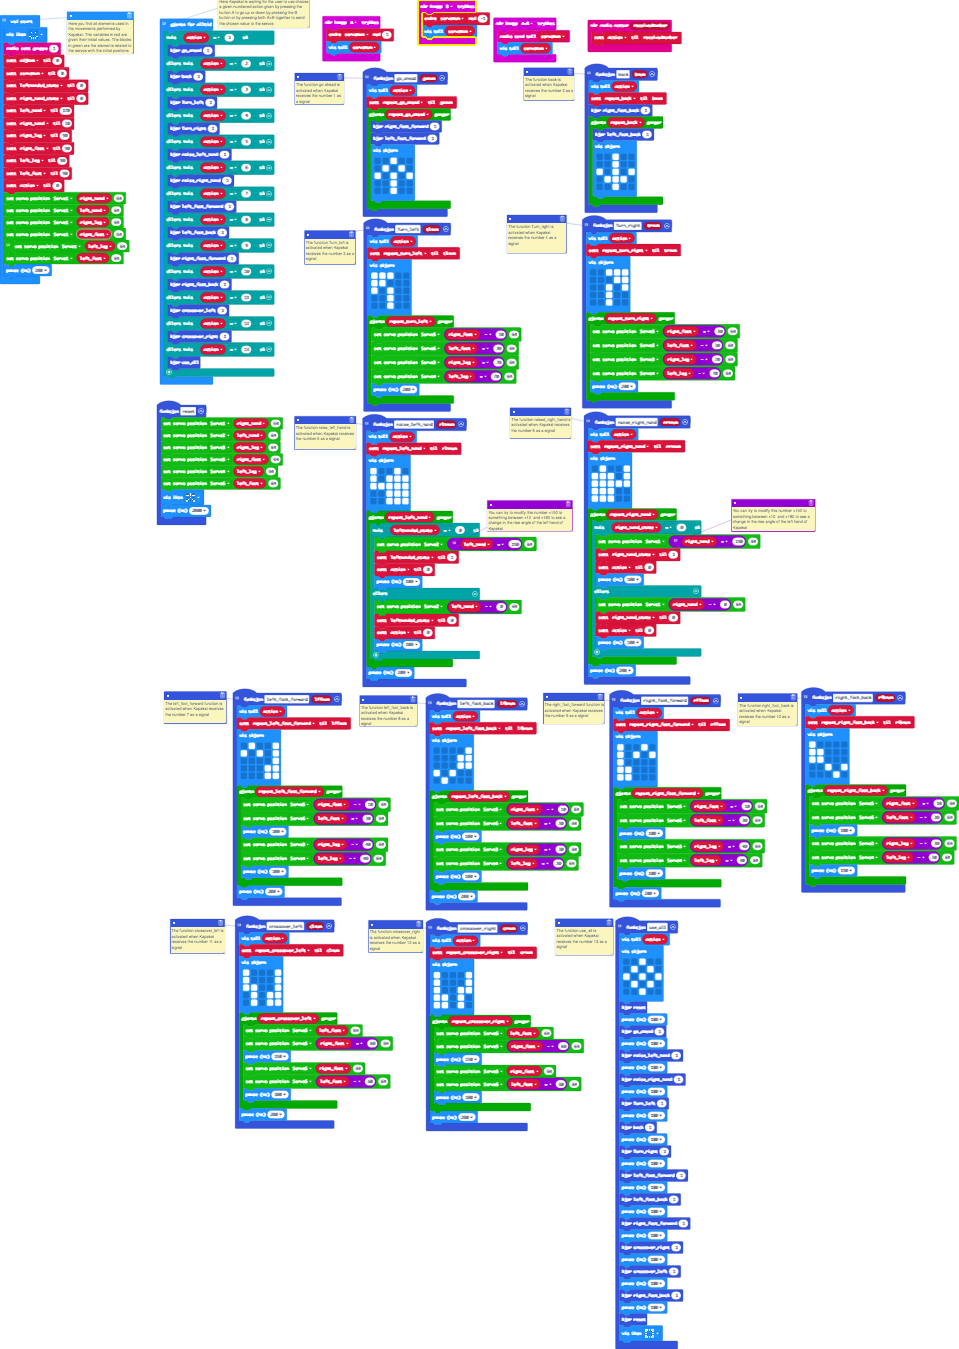
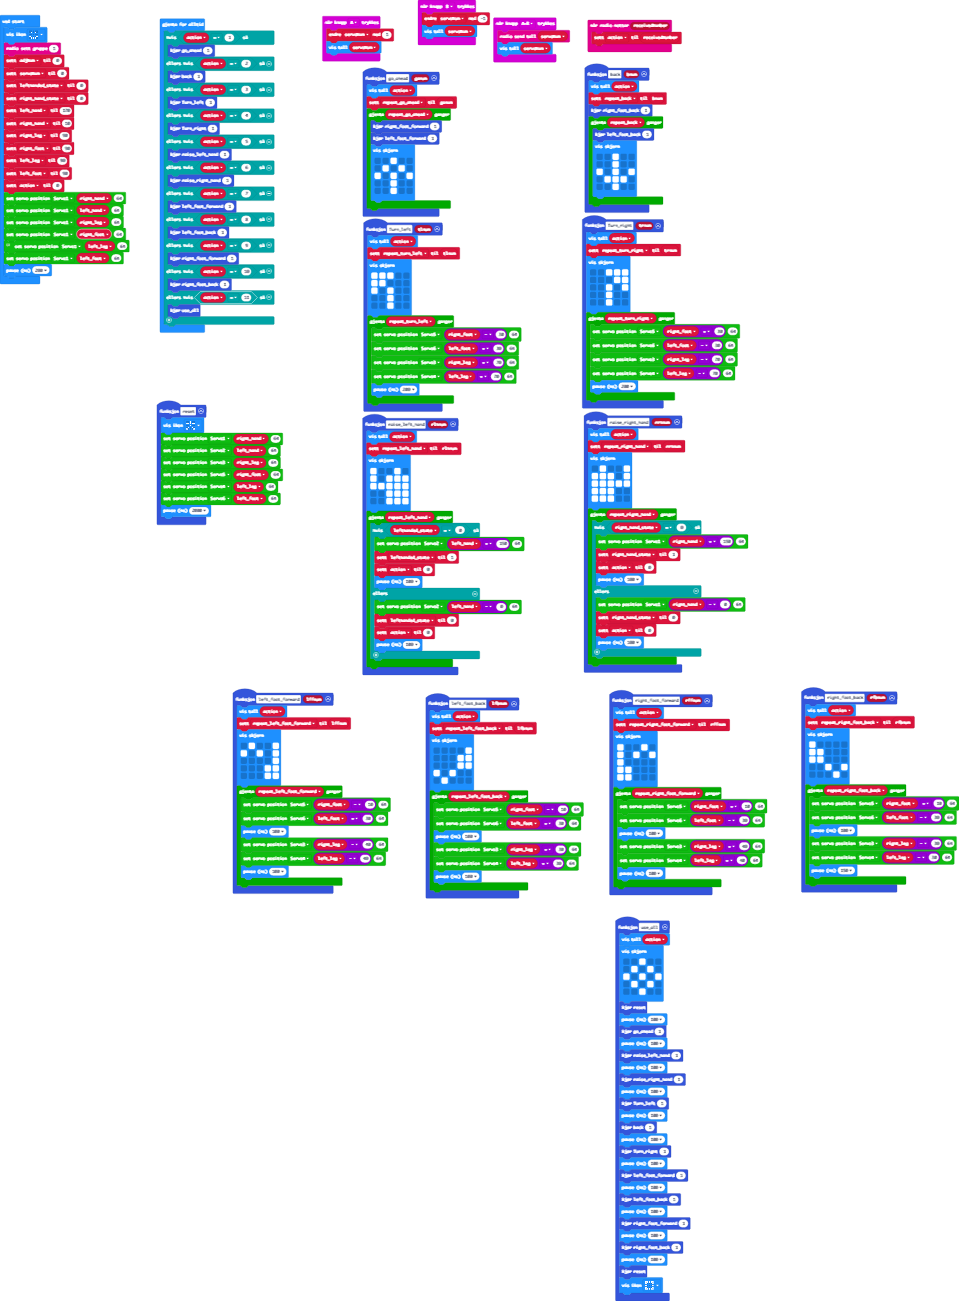
Oppdater main.blocks, main.ts

Changed region(s): [[0.0, 0.0, 1.0, 1.0]]

diff --git a/main.ts b/main.ts
@@ -1,4 +1,3 @@
-// The function raise_left_hand is activated when Kapakai receives the number 5 as a signal
 function raise_left_hand (rlhnum: number) {
     basic.showNumber(action)
     repeat_left_hand = rlhnum
@@ -11,8 +10,6 @@ function raise_left_hand (rlhnum: number) {
         `)
     for (let index = 0; index < repeat_left_hand; index++) {
         if (lefthanded_state == 0) {
-            // You can try to modify this number +150 to something between +10  and +180 to see a change in the rise angle of the left hand of Kapakai
-            // 
             PCA9685.setServoPosition(PCA9685.ServoNum.Servo2, left_hand + 150, 64)
             lefthanded_state = 1
             action = 0
@@ -24,33 +21,10 @@ function raise_left_hand (rlhnum: number) {
             basic.pause(100)
         }
     }
-    basic.pause(200)
 }
 radio.onReceivedNumber(function (receivedNumber) {
     action = receivedNumber
 })
-// The function crossover_left is activated when Kapakai receives the number 11 as a signal
-function crossover_left (clnum: number) {
-    basic.showNumber(action)
-    repeat_crossover_left = clnum
-    basic.showLeds(`
-        # . . . #
-        # . . . #
-        # # . . #
-        . # . # #
-        . # . # #
-        `)
-    for (let index = 0; index < repeat_crossover_left; index++) {
-        PCA9685.setServoPosition(PCA9685.ServoNum.Servo6, left_foot, 64)
-        PCA9685.setServoPosition(PCA9685.ServoNum.Servo5, right_foot + 60, 64)
-        basic.pause(150)
-        PCA9685.setServoPosition(PCA9685.ServoNum.Servo5, right_foot, 64)
-        PCA9685.setServoPosition(PCA9685.ServoNum.Servo6, left_foot - 60, 64)
-        basic.pause(100)
-    }
-    basic.pause(200)
-}
-// The function right_foot_back is activated when Kapakai receives the number 10 as a signal
 function right_foot_back (rfbnum: number) {
     basic.showNumber(action)
     repeat_right_foot_back = rfbnum
@@ -70,7 +44,6 @@ function right_foot_back (rfbnum: number) {
         basic.pause(150)
     }
 }
-// The function back is activated when Kapakai receives the number 2 as a signal 
 function back (bnum: number) {
     basic.showNumber(action)
     repeat_back = bnum
@@ -86,7 +59,6 @@ function back (bnum: number) {
             `)
     }
 }
-// The right_foot_forward function is activated when Kapakai receives the number 9 as a signal
 function right_foot_forward (rffnum: number) {
     basic.showNumber(action)
     repeat_right_foot_forward = rffnum
@@ -105,9 +77,7 @@ function right_foot_forward (rffnum: number) {
         PCA9685.setServoPosition(PCA9685.ServoNum.Servo4, left_leg + 40, 64)
         basic.pause(100)
     }
-    basic.pause(200)
 }
-// The function use_all is activated when Kapakai receives the number 13 as a signal
 function use_all () {
     basic.showNumber(action)
     basic.showLeds(`
@@ -137,16 +107,11 @@ function use_all () {
     basic.pause(100)
     right_foot_forward(1)
     basic.pause(100)
-    crossover_right(1)
-    basic.pause(100)
-    crossover_left(1)
-    basic.pause(100)
     right_foot_back(1)
     basic.pause(100)
     reset()
     basic.showIcon(IconNames.Square)
 }
-// The function go ahead is activated when Kapakai receives the number 1 as a signal
 function go_ahead (ganum: number) {
     basic.showNumber(action)
     repeat_go_ahead = ganum
@@ -166,7 +131,6 @@ input.onButtonPressed(Button.A, function () {
     servoNum += 1
     basic.showNumber(servoNum)
 })
-// The function left_foot_back is activated when Kapakai receives the number 8 as a signal
 function left_foot_back (lfbnum: number) {
     basic.showNumber(action)
     repeat_left_foot_back = lfbnum
@@ -185,30 +149,7 @@ function left_foot_back (lfbnum: number) {
         PCA9685.setServoPosition(PCA9685.ServoNum.Servo4, left_leg + 30, 64)
         basic.pause(100)
     }
-    basic.pause(200)
 }
-// The function crossover_right is activated when Kapakai receives the number 12 as a signal
-function crossover_right (crnum: number) {
-    basic.showNumber(action)
-    repeat_crossover_right = crnum
-    basic.showLeds(`
-        # . . . #
-        # . . . #
-        # . . # #
-        # # . # .
-        # # . # .
-        `)
-    for (let index = 0; index < repeat_crossover_right; index++) {
-        PCA9685.setServoPosition(PCA9685.ServoNum.Servo6, left_foot, 64)
-        PCA9685.setServoPosition(PCA9685.ServoNum.Servo5, right_foot - 60, 64)
-        basic.pause(150)
-        PCA9685.setServoPosition(PCA9685.ServoNum.Servo5, right_foot, 64)
-        PCA9685.setServoPosition(PCA9685.ServoNum.Servo6, left_foot + 60, 64)
-        basic.pause(100)
-    }
-    basic.pause(200)
-}
-// The function Turn_right is activated when Kapakai receives the number 4 as a signal
 function Turn_right (trnum: number) {
     basic.showNumber(action)
     repeat_turn_right = trnum
@@ -227,7 +168,6 @@ function Turn_right (trnum: number) {
         basic.pause(200)
     }
 }
-// The function Turn_left is activated when Kapakai receives the number 3 as a signal 
 function Turn_left (tlnum: number) {
     basic.showNumber(action)
     repeat_turn_left = tlnum
@@ -254,7 +194,6 @@ input.onButtonPressed(Button.B, function () {
     servoNum += -1
     basic.showNumber(servoNum)
 })
-// The function raised_right_hand is activated when Kapakai receives the number 6 as a signal
 function raise_right_hand (rrhnum: number) {
     basic.showNumber(action)
     repeat_right_hand = rrhnum
@@ -267,7 +206,6 @@ function raise_right_hand (rrhnum: number) {
         `)
     for (let index = 0; index < repeat_right_hand; index++) {
         if (right_hand_state == 0) {
-            // You can try to modify this number +150 to something between +10  and +180 to see a change in the rise angle of the left hand of Kapakai
             PCA9685.setServoPosition(PCA9685.ServoNum.Servo1, right_hand + 150, 64)
             right_hand_state = 1
             action = 0
@@ -279,9 +217,7 @@ function raise_right_hand (rrhnum: number) {
             basic.pause(100)
         }
     }
-    basic.pause(200)
 }
-// The left_foot_forward function is activated when Kapakai receives the number 7 as a signal
 function left_foot_forward (lffnum: number) {
     basic.showNumber(action)
     repeat_left_foot_forward = lffnum
@@ -300,30 +236,26 @@ function left_foot_forward (lffnum: number) {
         PCA9685.setServoPosition(PCA9685.ServoNum.Servo4, left_leg - 40, 64)
         basic.pause(100)
     }
-    basic.pause(200)
 }
 function reset () {
+    basic.showIcon(IconNames.StickFigure)
     PCA9685.setServoPosition(PCA9685.ServoNum.Servo1, right_hand, 64)
     PCA9685.setServoPosition(PCA9685.ServoNum.Servo2, left_hand, 64)
     PCA9685.setServoPosition(PCA9685.ServoNum.Servo3, right_leg, 64)
     PCA9685.setServoPosition(PCA9685.ServoNum.Servo5, right_foot, 64)
     PCA9685.setServoPosition(PCA9685.ServoNum.Servo4, left_leg, 64)
     PCA9685.setServoPosition(PCA9685.ServoNum.Servo6, left_foot, 64)
-    basic.showIcon(IconNames.StickFigure)
     basic.pause(2000)
 }
-// Here you find all elements used in the movements performed by Kapakai. The variables in red are given their initial values. The blocks in green are the elements related to the servos with the initial positions as variables at start
 let repeat_left_foot_forward = 0
 let repeat_right_hand = 0
 let repeat_turn_left = 0
 let repeat_turn_right = 0
-let repeat_crossover_right = 0
 let repeat_left_foot_back = 0
 let repeat_go_ahead = 0
 let repeat_right_foot_forward = 0
 let repeat_back = 0
 let repeat_right_foot_back = 0
-let repeat_crossover_left = 0
 let repeat_left_hand = 0
 let action = 0
 let left_foot = 0
@@ -355,7 +287,6 @@ PCA9685.setServoPosition(PCA9685.ServoNum.Servo1, right_foot, 64)
 PCA9685.setServoPosition(PCA9685.ServoNum.Servo1, left_leg, 64)
 PCA9685.setServoPosition(PCA9685.ServoNum.Servo1, left_foot, 64)
 basic.pause(200)
-// Here Kapakai is waiting for the user to use choose a given numbered action given by pressing the button A to go up or down by pressing the B button or by pressing both A+B together to send the chosen value to the servos 
 basic.forever(function () {
     if (action == 1) {
         go_ahead(1)
@@ -378,10 +309,6 @@ basic.forever(function () {
     } else if (action == 10) {
         right_foot_back(1)
     } else if (action == 11) {
-        crossover_left(1)
-    } else if (action == 12) {
-        crossover_right(1)
-    } else if (action == 13) {
         use_all()
     }
 })
